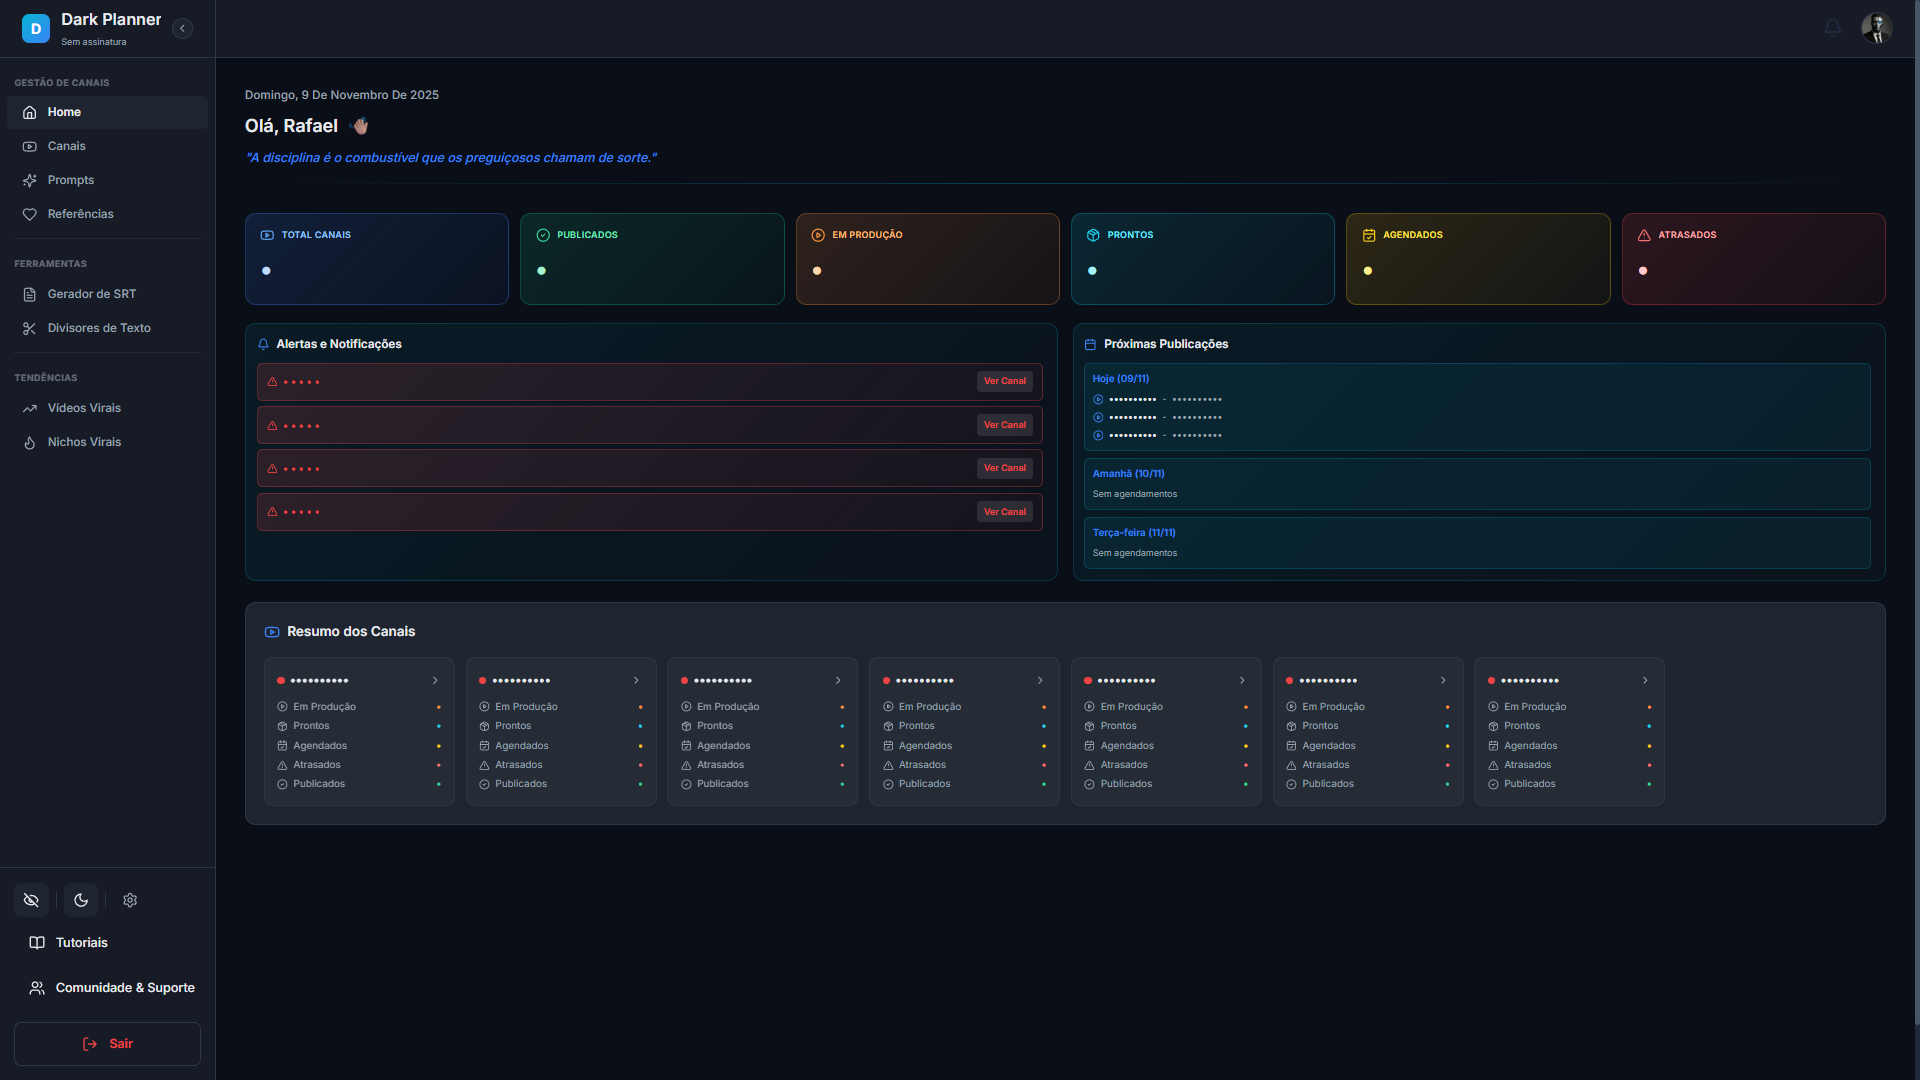
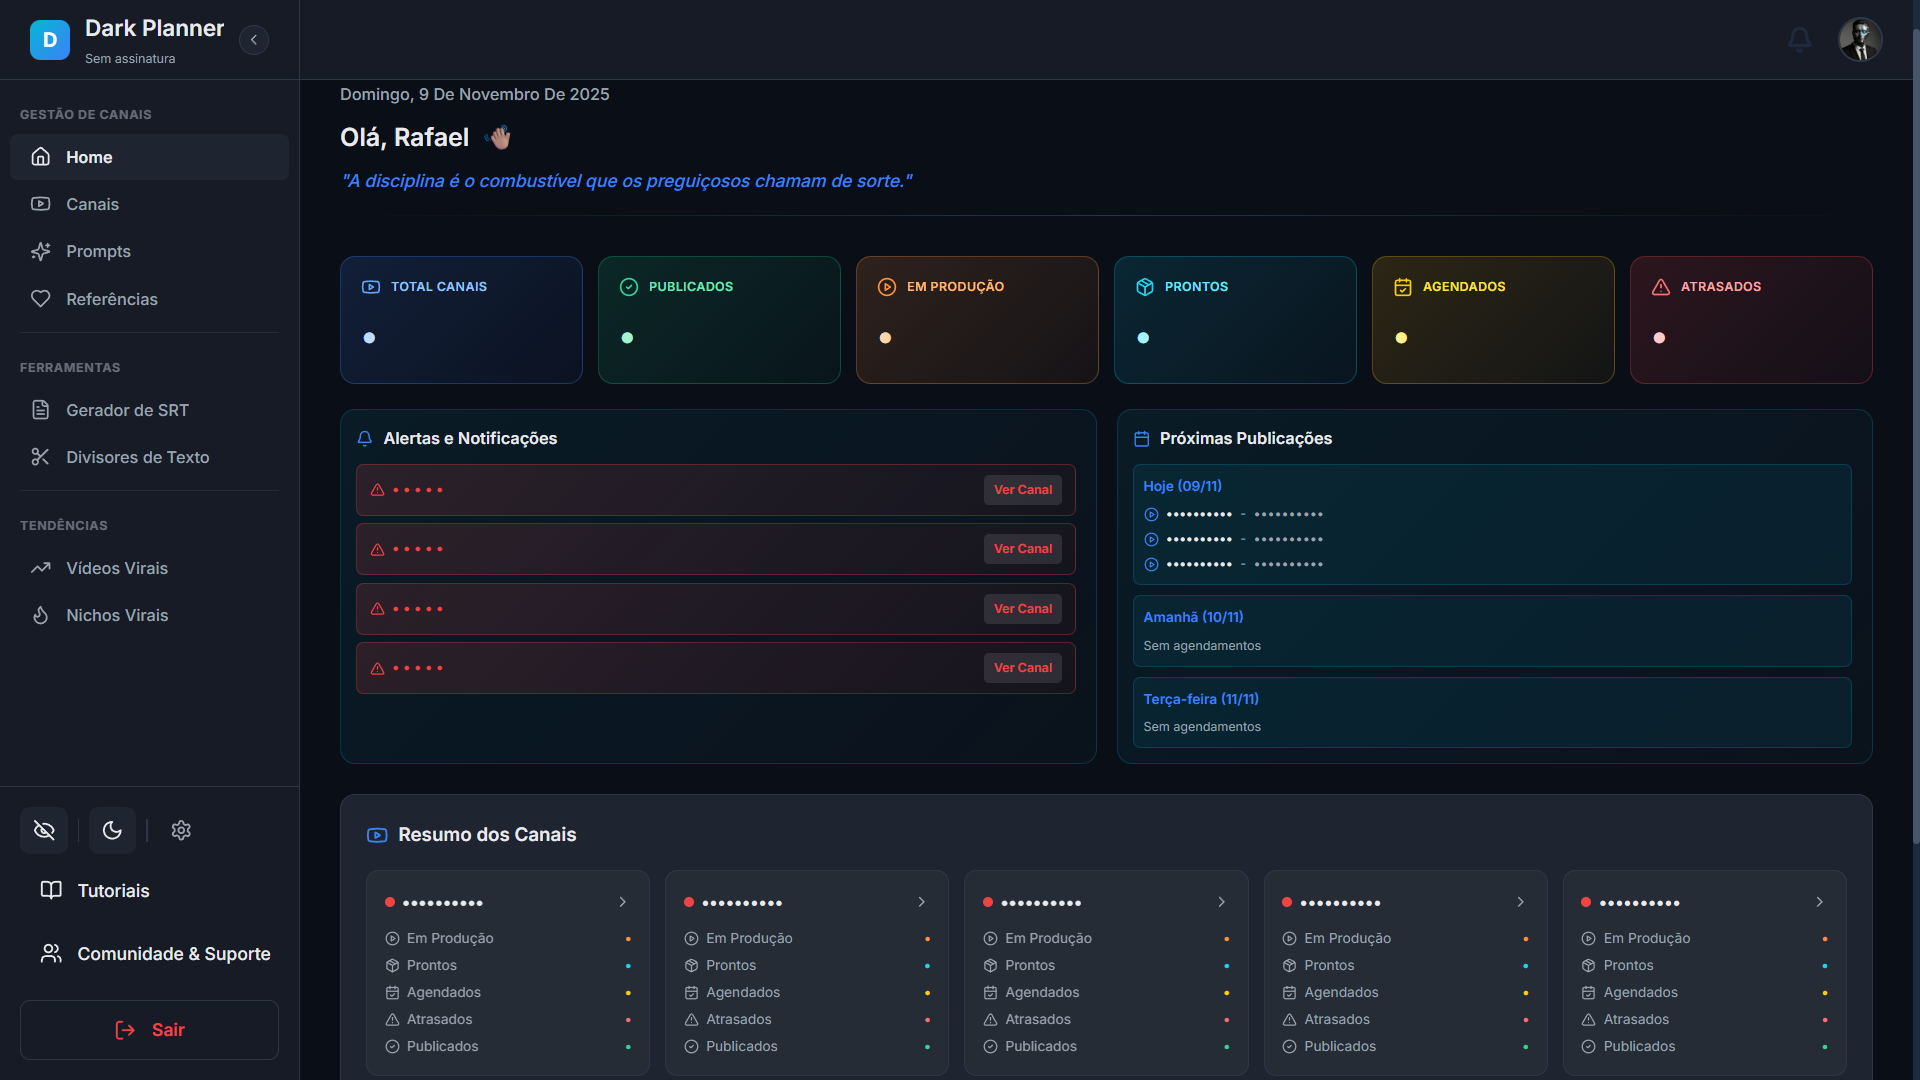
Refine dashboard showcase
Update dashboard showcase to use new image, remove title, and adjust spacing to be closer to the hero section.

diff --git a/src/components/DashboardShowcase.tsx b/src/components/DashboardShowcase.tsx
@@ -3,18 +3,9 @@ import dashboardImage from "@/assets/dashboard-main.png";
 
 export const DashboardShowcase = () => {
   return (
-    <div className="flex flex-col overflow-hidden">
+    <div className="flex flex-col overflow-hidden -mt-32 md:-mt-40">
       <ContainerScroll
-        titleComponent={
-          <>
-            <h2 className="text-4xl font-semibold text-foreground">
-              Visualize e Gerencie <br />
-              <span className="text-4xl md:text-[6rem] font-bold mt-1 leading-none bg-gradient-to-r from-primary via-blue-500 to-primary/60 bg-clip-text text-transparent">
-                Tudo em um Só Lugar
-              </span>
-            </h2>
-          </>
-        }
+        titleComponent={<></>}
       >
         <img
           src={dashboardImage}

diff --git a/src/components/ui/container-scroll-animation.tsx b/src/components/ui/container-scroll-animation.tsx
@@ -35,11 +35,11 @@ export const ContainerScroll = ({
 
   return (
     <div
-      className="h-[60rem] md:h-[80rem] flex items-center justify-center relative p-2 md:p-20"
+      className="h-[50rem] md:h-[60rem] flex items-center justify-center relative p-2 md:p-10"
       ref={containerRef}
     >
       <div
-        className="py-10 md:py-40 w-full relative"
+        className="py-5 md:py-20 w-full relative"
         style={{
           perspective: "1000px",
         }}
